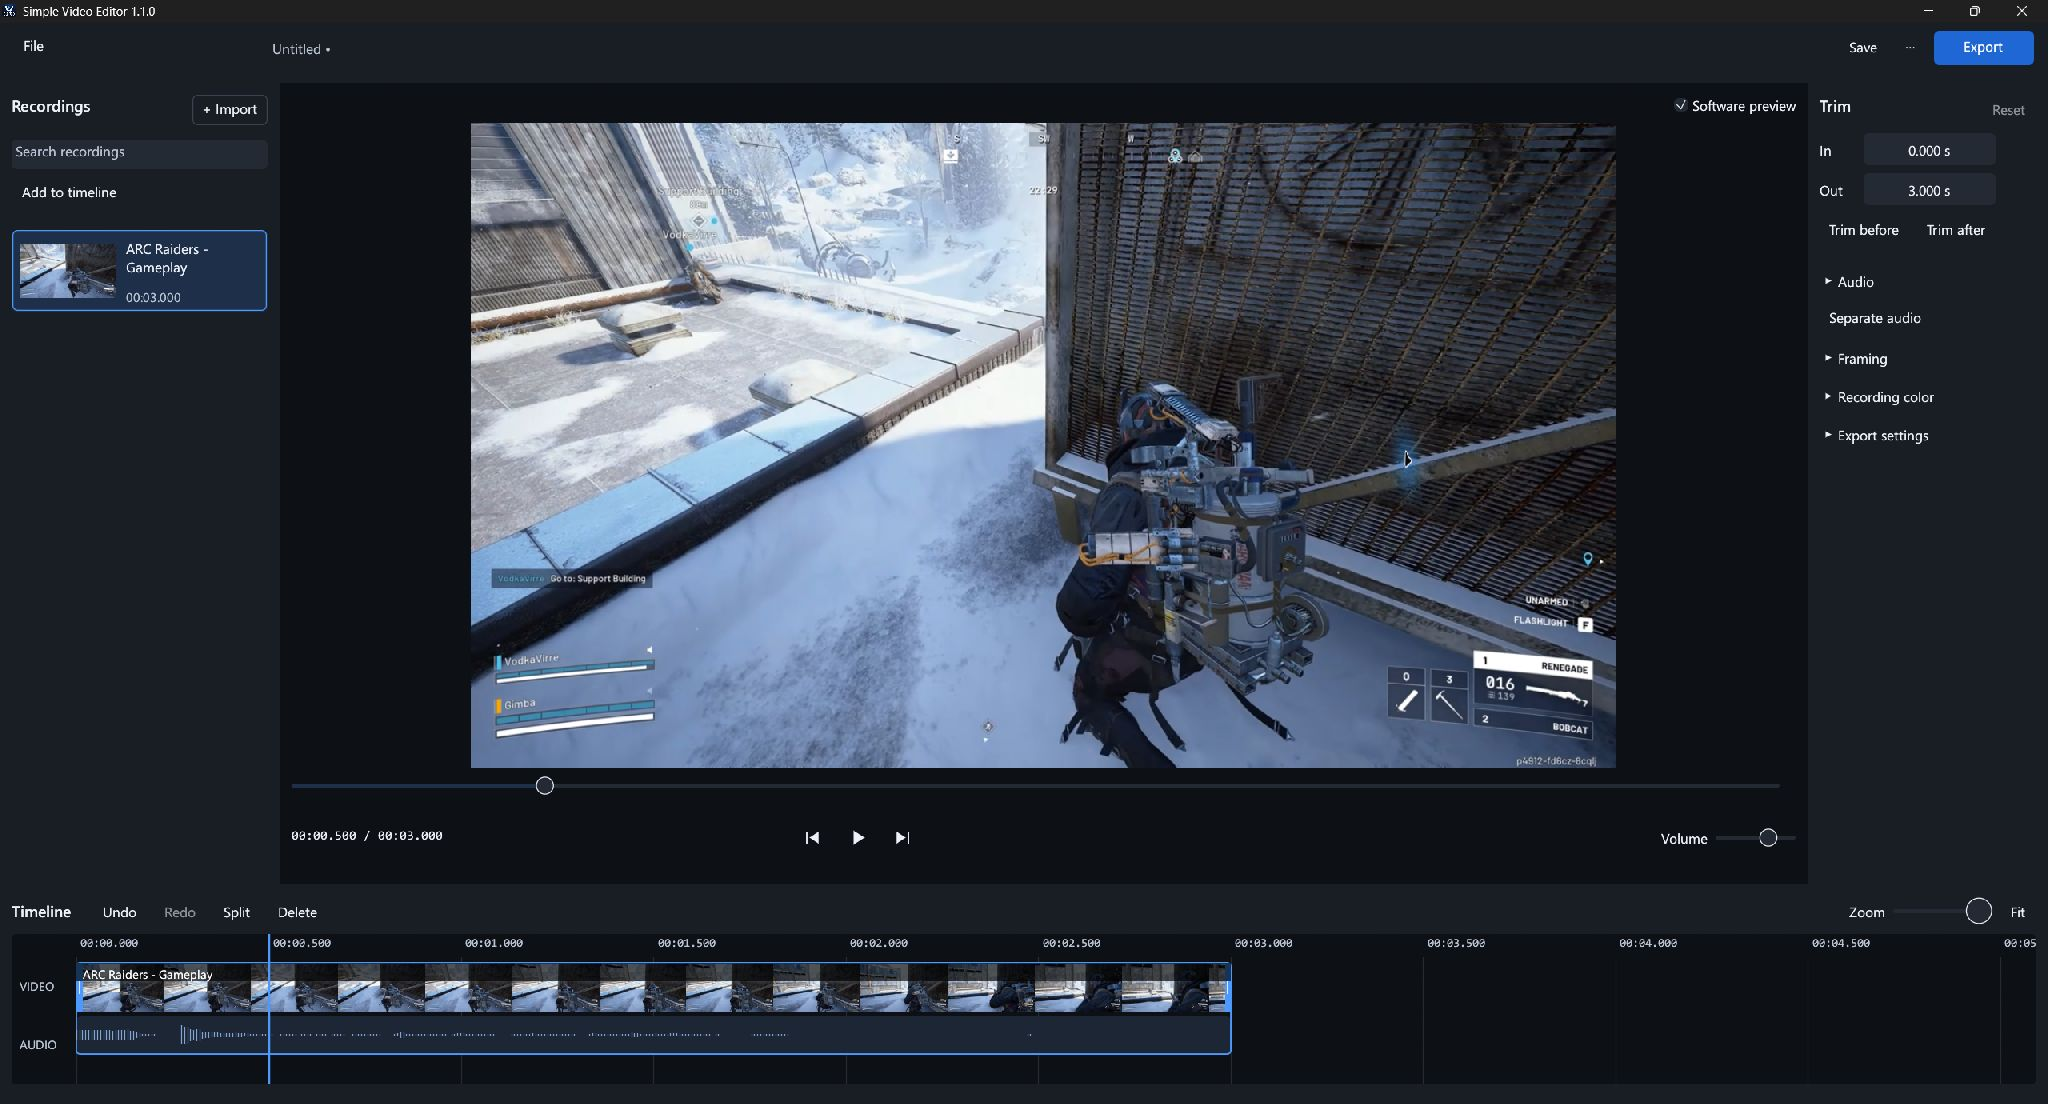
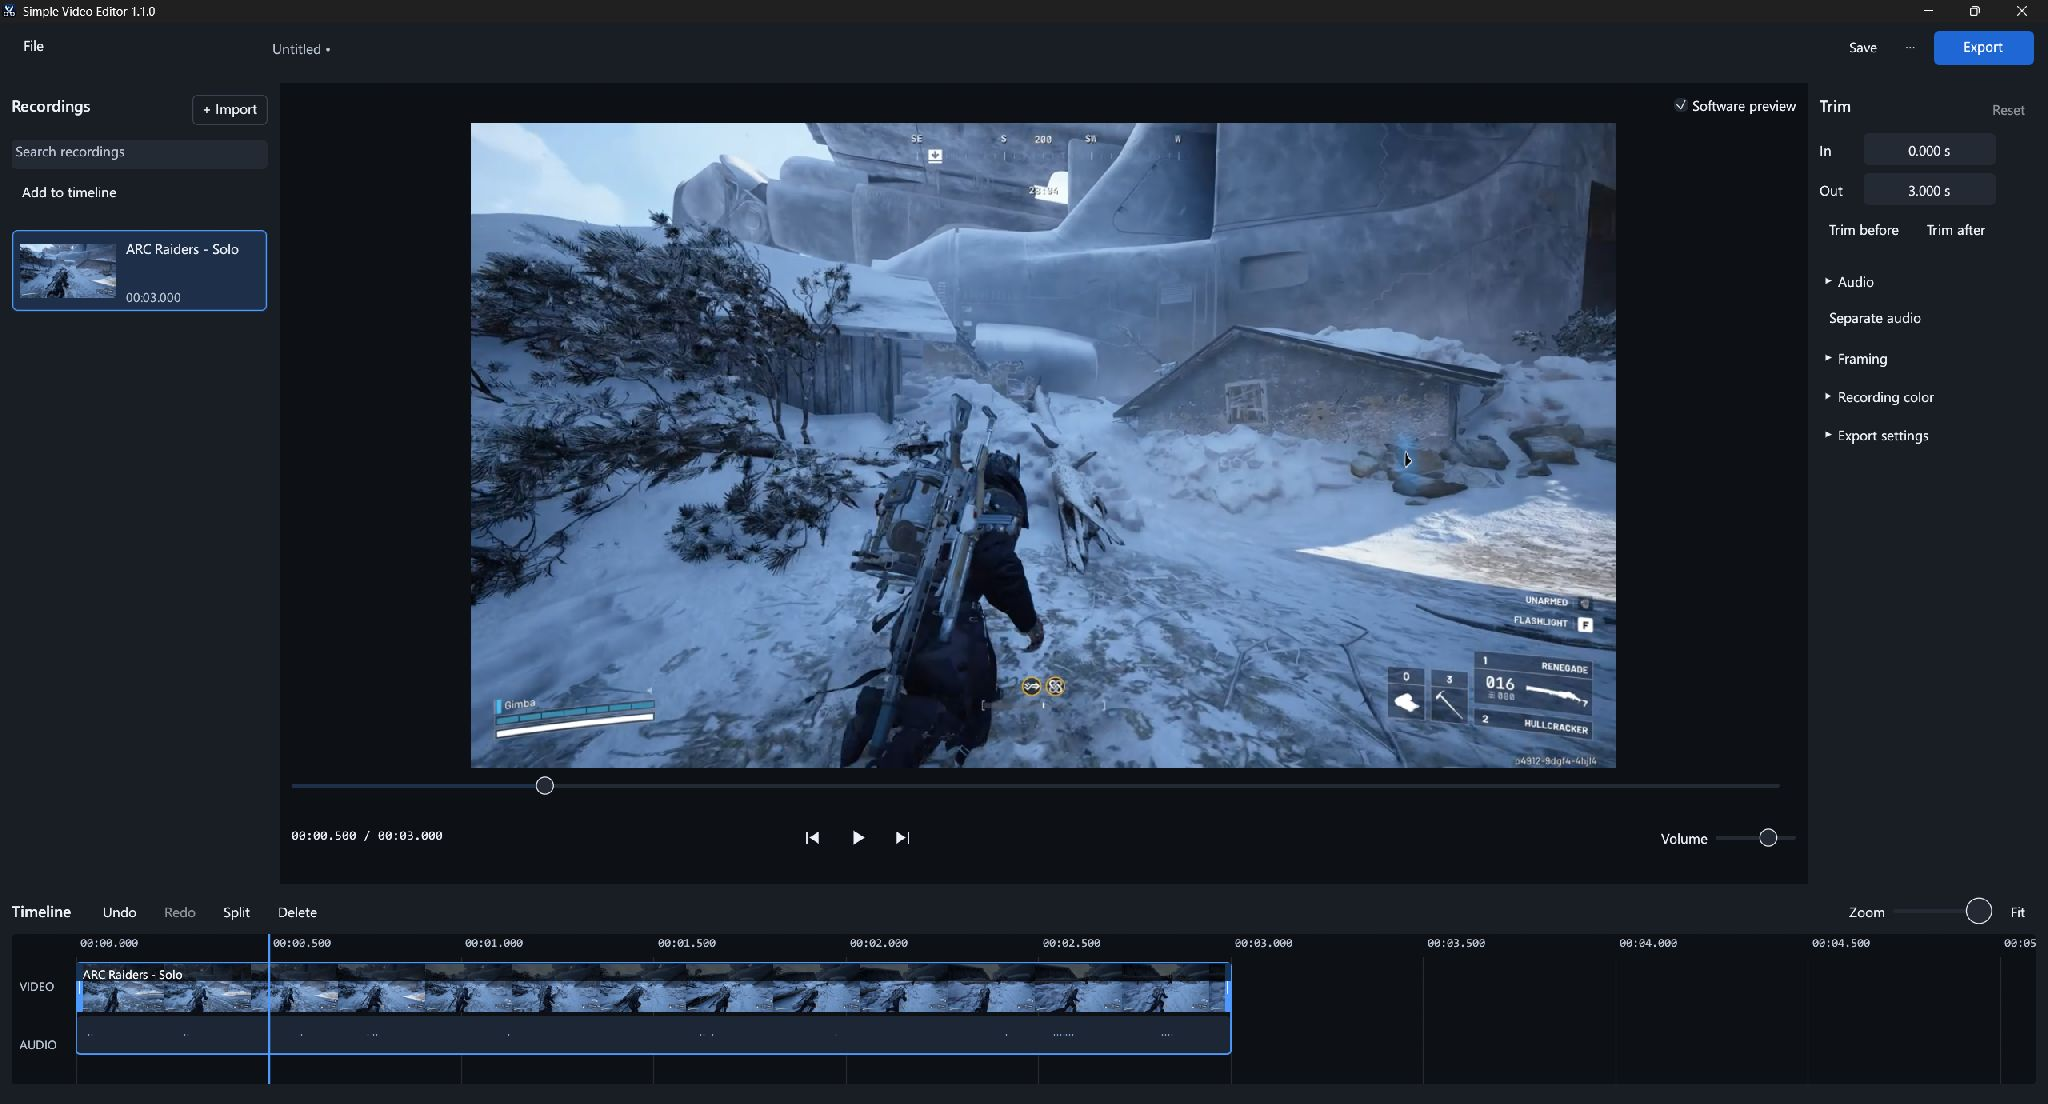
Use solo ARC Raiders gameplay in the README screenshot

diff --git a/README.md b/README.md
@@ -2,7 +2,7 @@
 
 A portable Windows editor for trimming and combining local recordings. Edits leave the original files untouched.
 
-![ARC Raiders gameplay in Simple Video Editor, with timeline thumbnails and an audio waveform](docs/images/editor.png)
+![Solo ARC Raiders gameplay in Simple Video Editor, with timeline thumbnails and an audio waveform](docs/images/editor.png)
 
 Version 1.1.0 introduces the Rust implementation, responsive native preview, HDR-to-SDR conversion, timeline thumbnails and independent audio editing. The portable app needs no .NET runtime; its measured download is about 25% smaller than 1.0.4. See the [comparison](docs/rust-csharp-comparison.md) for measurements and memory tradeoffs.
 
